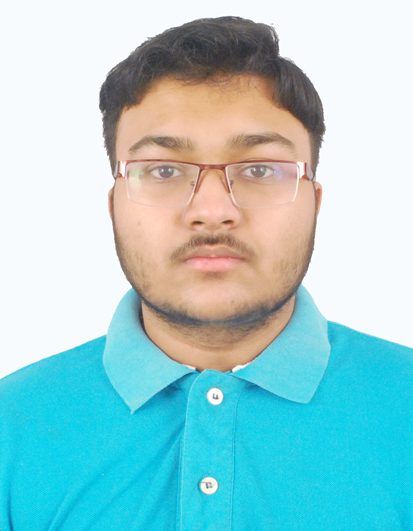
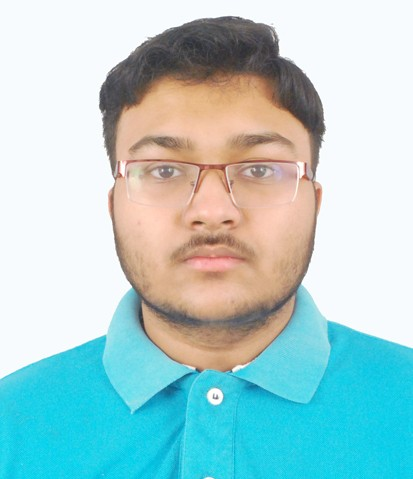
tadvab phoot fix

diff --git a/components/ClubSelection/clubRecruitment.jsx b/components/ClubSelection/clubRecruitment.jsx
@@ -257,7 +257,7 @@ const ClubRecruitment = () => {
               <Star className="w-10 h-10 text-blue-400 mx-auto group-hover:animate-pulse" />
             </div>
             <div className="text-3xl md:text-4xl font-black text-blue-400 mb-2 group-hover:text-blue-300 transition-colors">
-              100%
+              95%+
             </div>
             <div className="text-white font-bold text-lg mb-1">PLACEMENT</div>
             <div className="text-gray-500 text-sm">

diff --git a/mock.js b/mock.js
@@ -267,7 +267,7 @@ export const clubMembers = [
   },
   {
     name: "Tadvab Pradhan",
-    img: "/team/deepti jr.png",
+    img: "/team/tadvab.jpg",
     batch: "2023",
     linkedIn: "https://www.linkedin.com/in/tadvab-pradhan-97a976300",
     domain: "Web Development",

diff --git a/components/Navbar/navbar.js b/components/Navbar/navbar.js
@@ -269,7 +269,7 @@ function Navbar() {
               className="pointer hover ntxt"
               onClick={closeMenu}
             >
-              club recruitment
+              CLUB RECRUITMENT
             </div>
           </Link>
         </div>
